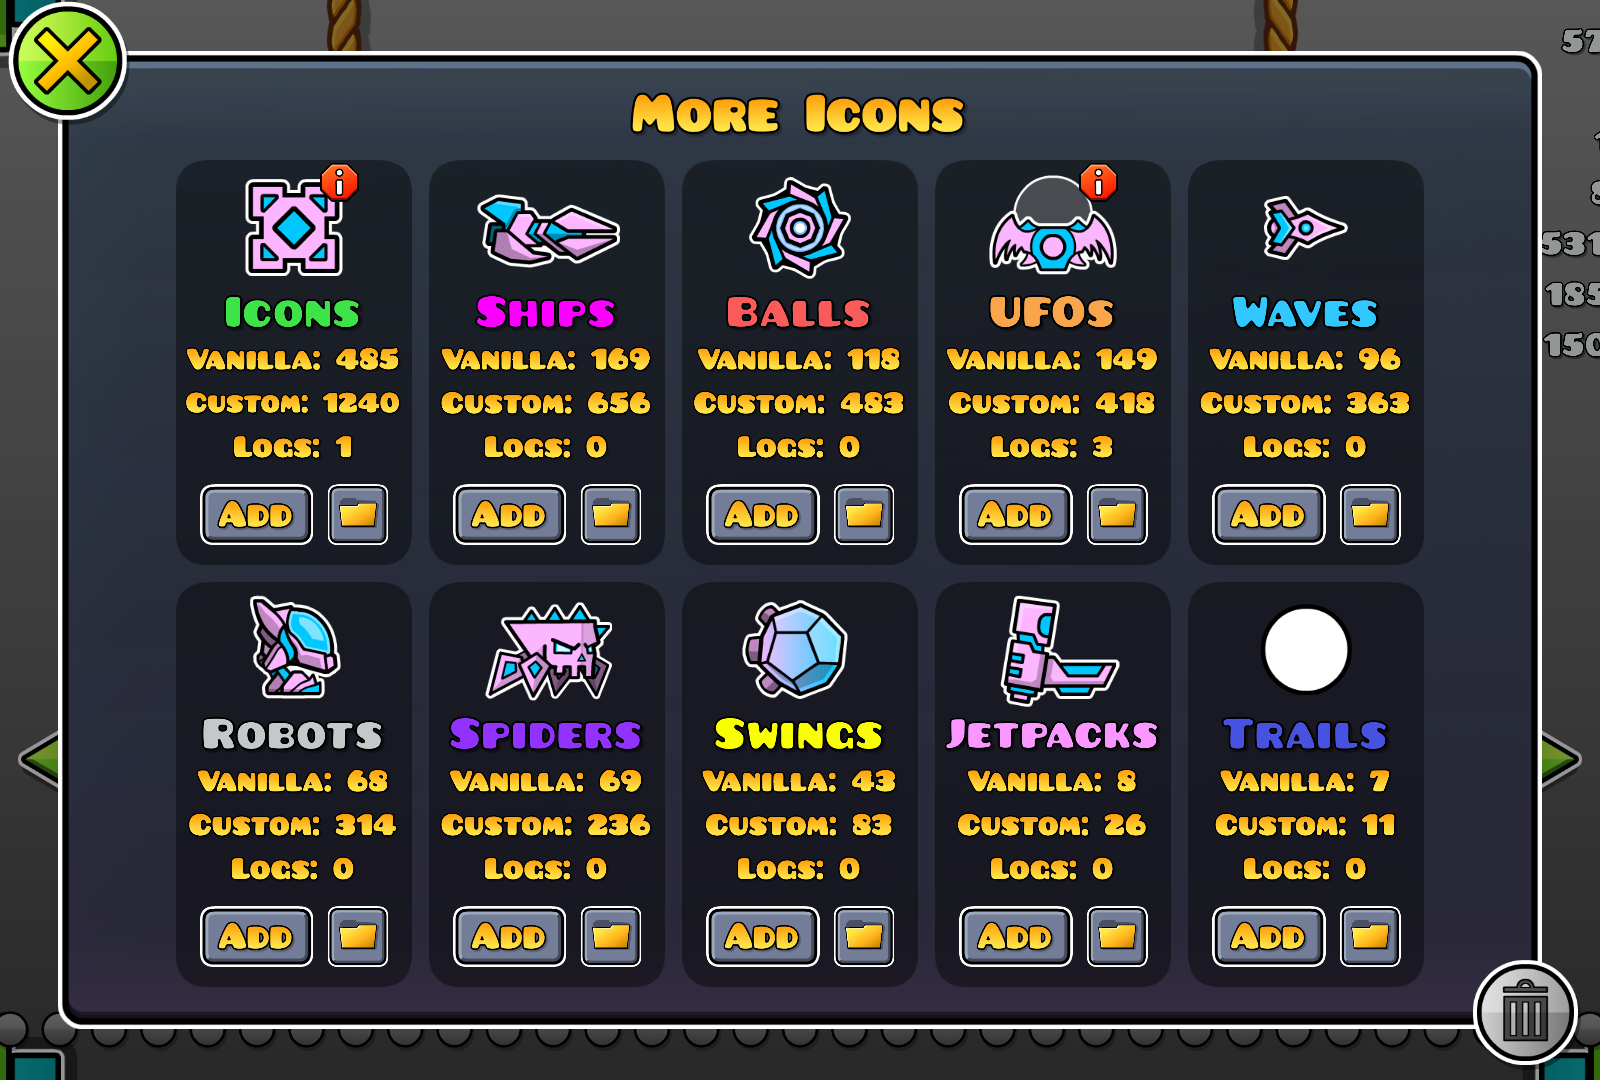
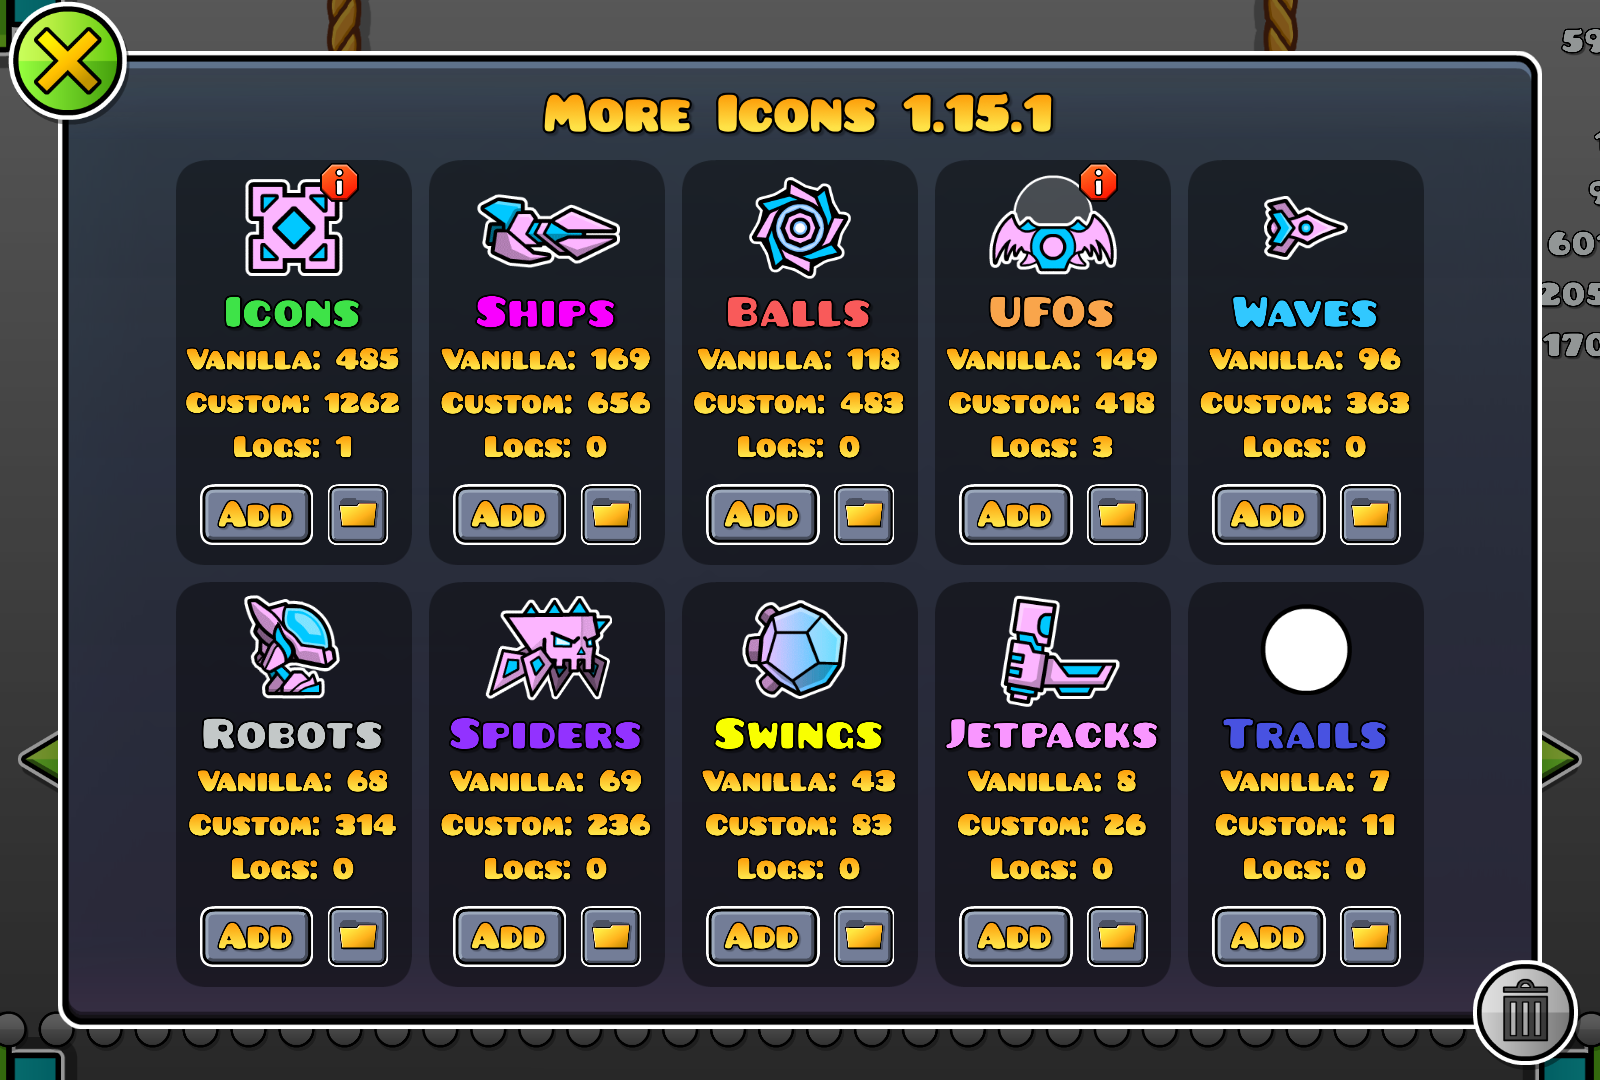
I told you it was only a matter of time

diff --git a/src/classes/popup/edit/EditIconPopup.cpp b/src/classes/popup/edit/EditIconPopup.cpp
@@ -577,7 +577,16 @@ bool EditIconPopup::setup(MoreIconsPopup* popup, IconType type) {
     auto pieceClearSprite = ButtonSprite::create("Clear", "goldFont.fnt", "GJ_button_05.png", 0.8f);
     pieceClearSprite->setScale(0.6f);
     auto pieceClearButton = CCMenuItemExt::createSpriteExtra(pieceClearSprite, [this](auto) {
-        m_frames->setObject(MoreIconsAPI::getFrame("emptyFrame.png"), fmt::format("{}.png", m_suffix));
+        auto emptyFrame = MoreIconsAPI::getFrame("emptyFrame.png"_spr);
+        if (!emptyFrame) {
+            Autorelease texture = new CCTexture2D();
+            auto factor = MoreIconsAPI::getDirector()->getContentScaleFactor();
+            std::vector<uint8_t> data(4.0f * factor * factor, 0);
+            texture->initWithData(data.data(), kCCTexture2DPixelFormat_RGBA8888, factor, factor, { factor, factor });
+            emptyFrame = CCSpriteFrame::createWithTexture(texture, { { 0.0f, 0.0f }, texture->getContentSize() });
+            MoreIconsAPI::getSpriteFrameCache()->addSpriteFrame(emptyFrame, "emptyFrame.png"_spr);
+        }
+        m_frames->setObject(emptyFrame, fmt::format("{}.png", m_suffix));
         updatePieces();
     });
     pieceClearButton->setID("piece-clear-button");

diff --git a/changelog.md b/changelog.md
@@ -1,4 +1,9 @@
 # More Icons Changelog
+## v1.15.1 (2025-12-01)
+- Added 2 pixels of transparent padding around exported icon pieces to fix overlapping issues (Suggested by [DeepResonanceX](user:5668656))
+- Fixed a bug where saving an icon with a cleared piece would crash the game (Reported by [UltraDestroya48](user:21986176))
+- Updated the gallery with new screenshots
+
 ## v1.15.0 (2025-11-30)
 - It took me four months to make this update. Let that sink in.
 - Revamped the icon editor UI to support more extensive editing features

diff --git a/README.md b/README.md
@@ -17,6 +17,8 @@ Custom icons without the hassle.
 
 ![Edit Icon Popup](https://raw.githubusercontent.com/hiimjasmine00/MoreIcons/refs/heads/master/resources/edit-icon-popup.png)
 
+![Icon Name Popup](https://raw.githubusercontent.com/hiimjasmine00/MoreIcons/refs/heads/master/resources/icon-name-popup.png)
+
 ## Credits
 - [DeepResonanceX](https://gdbrowser.com/u/5668656) - Ideas and funding for the mod
 - [hiimjasmine00](https://gdbrowser.com/u/7466002) - Creator of the mod

diff --git a/about.md b/about.md
@@ -17,6 +17,8 @@ Custom icons without the hassle.
 
 ![Edit Icon Popup](hiimjustin000.more_icons/edit-icon-popup.png?width=300)
 
+![Icon Name Popup](hiimjustin000.more_icons/icon-name-popup.png?width=300)
+
 ## Credits
 - [DeepResonanceX](user:5668656) - Ideas and funding for the mod
 - [hiimjasmine00](user:7466002) - Creator of the mod
